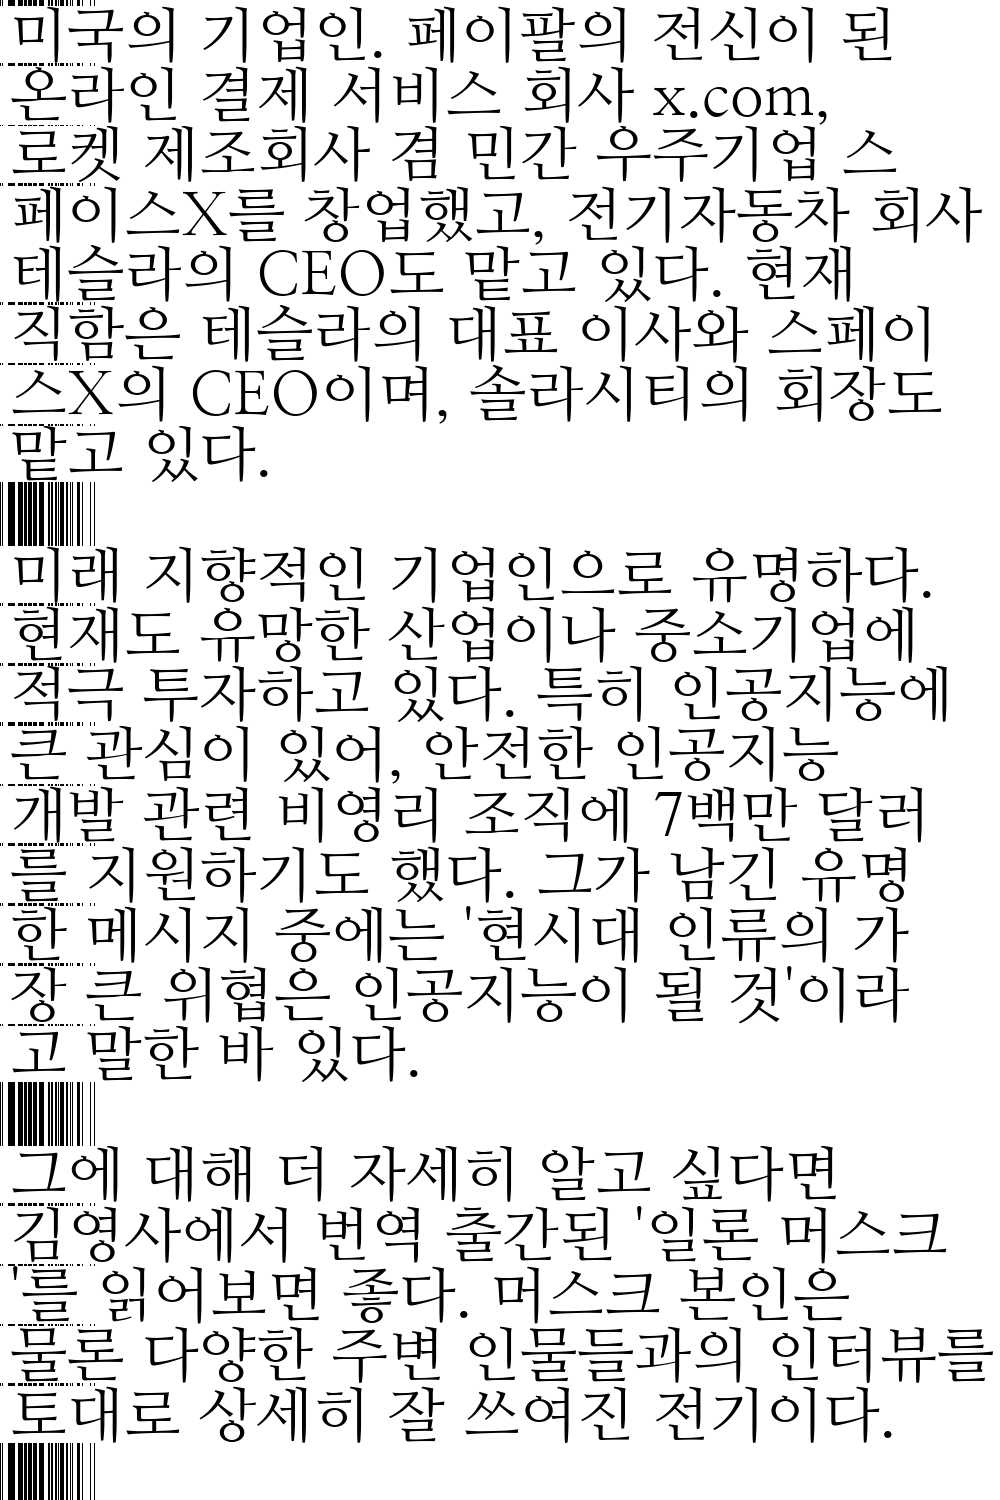
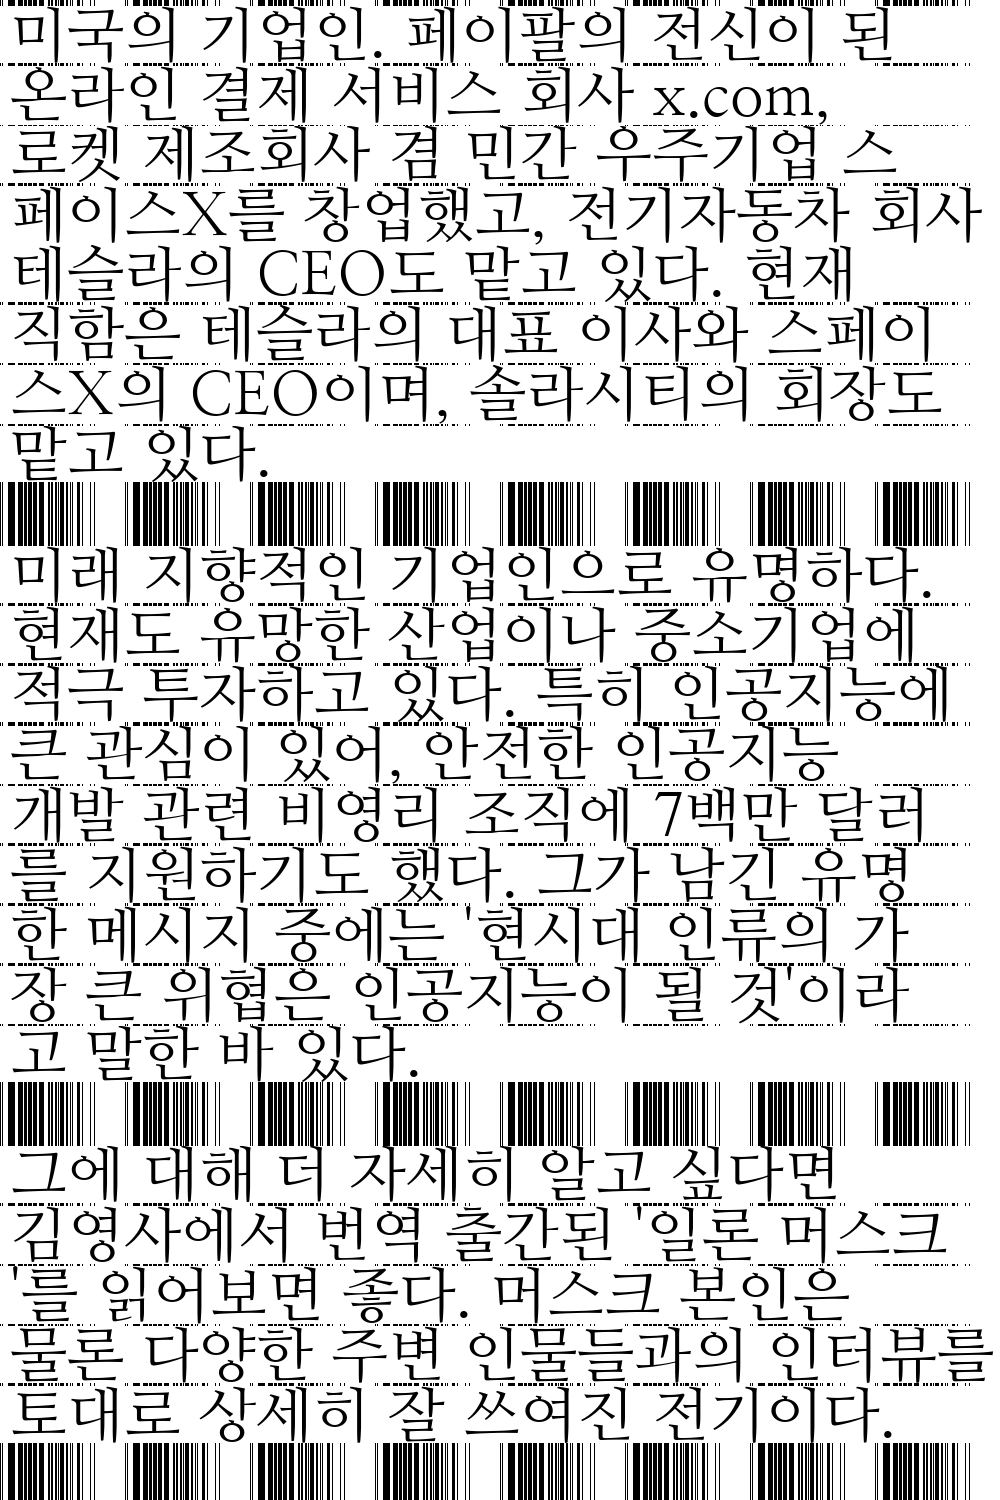
fix(renderer): enlarge watermark size

diff --git a/renderer/add_invisiable_watermark.py b/renderer/add_invisiable_watermark.py
@@ -6,6 +6,9 @@ def add_invisiable_watermark(image_path, watermark_object_id):
   watermark_object_id_as_binary = [int(x) for x in bin(watermark_object_id_as_number)[2:]]
   print(watermark_object_id_as_binary)
 
+  blank = [0] * 30
+  watermark_object_id_as_binary = (watermark_object_id_as_binary + blank) * 8
+
   pixels = image.load()
   print(image.size)
   row_count = 0
